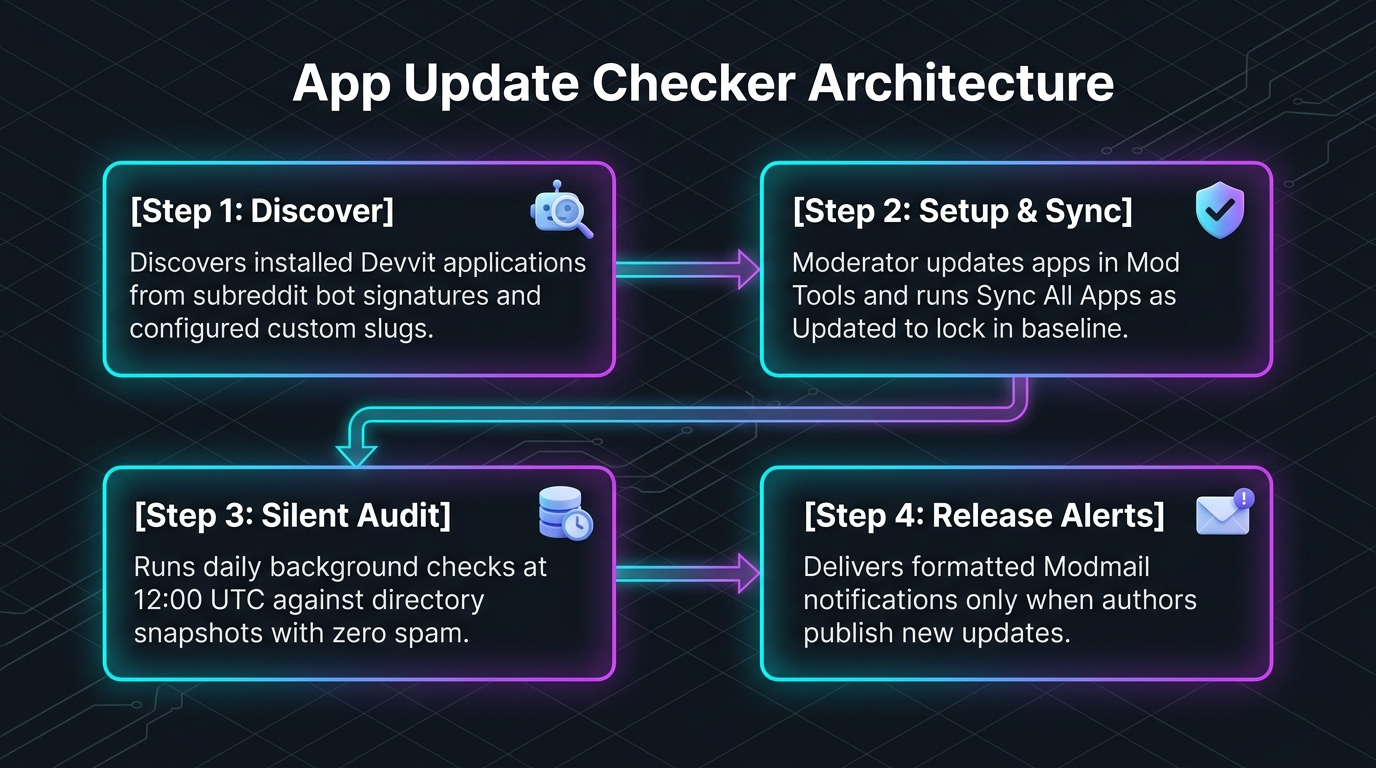
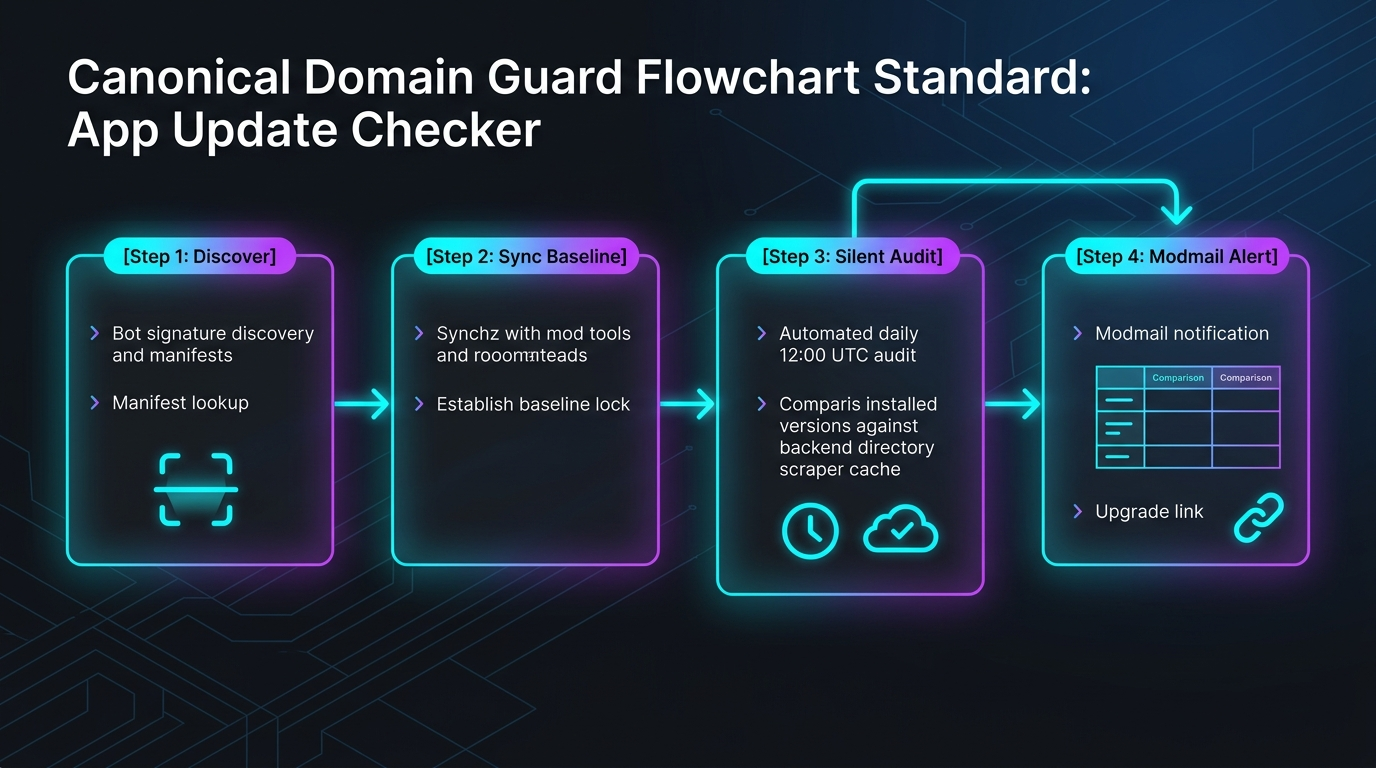
chore: update assets for app-update-checker v0.0.73

diff --git a/app-update-checker/wiki.html b/app-update-checker/wiki.html
@@ -1,7 +1,7 @@
 <h1>App Update Checker</h1>
 
 <p>Category: Utility<br>
-Version: v0.0.72<br>
+Version: v0.0.73<br>
 Visibility: Unlisted<br>
 Summary: Automated version tracking and release notification engine for Reddit Devvit apps. Daily silent audits and modmail alerts.</p>
 
@@ -72,12 +72,12 @@ Summary: Automated version tracking and release notification engine for Reddit D
 </ul>
 
 <h2>Version History</h2>
+<p>0.0.73 — 2026-09-01<br>
+Standard fleet synchronization and maintenance.</p>
 <p>0.0.71 — 2026-08-31<br>
 Standard fleet synchronization and maintenance.</p>
 <p>0.0.69 — 2026-08-30<br>
 Standard fleet synchronization and maintenance.</p>
-<p>0.0.67 — 2026-08-27<br>
-Reconcile unlisted status and support unlisted fleet apps in version manifest</p>
 
 <h2>Links</h2>
 <ul>

diff --git a/app-update-checker/wiki.md b/app-update-checker/wiki.md
@@ -1,7 +1,7 @@
 # App Update Checker
 
 Category: Utility  
-Version: v0.0.72  
+Version: v0.0.73  
 Visibility: Unlisted  
 Summary: Automated version tracking and release notification engine for Reddit Devvit apps. Daily silent audits and modmail alerts.
 
@@ -59,14 +59,14 @@ This app utilizes Reddit Redis storage for state management, caching, and rate l
 - Ensure all required app settings and API keys are properly configured in Mod Tools.
 
 ## Version History
+0.0.73 — 2026-09-01
+- Standard fleet synchronization and maintenance.
+
 0.0.71 — 2026-08-31
 - Standard fleet synchronization and maintenance.
 
 0.0.69 — 2026-08-30
 - Standard fleet synchronization and maintenance.
-
-0.0.67 — 2026-08-27
-- Reconcile unlisted status and support unlisted fleet apps in version manifest
 
 ## Links
 - [Terms of Service](https://github.com/grantdb/reddit-app-legal/blob/main/app-update-checker/TERMS.md)
